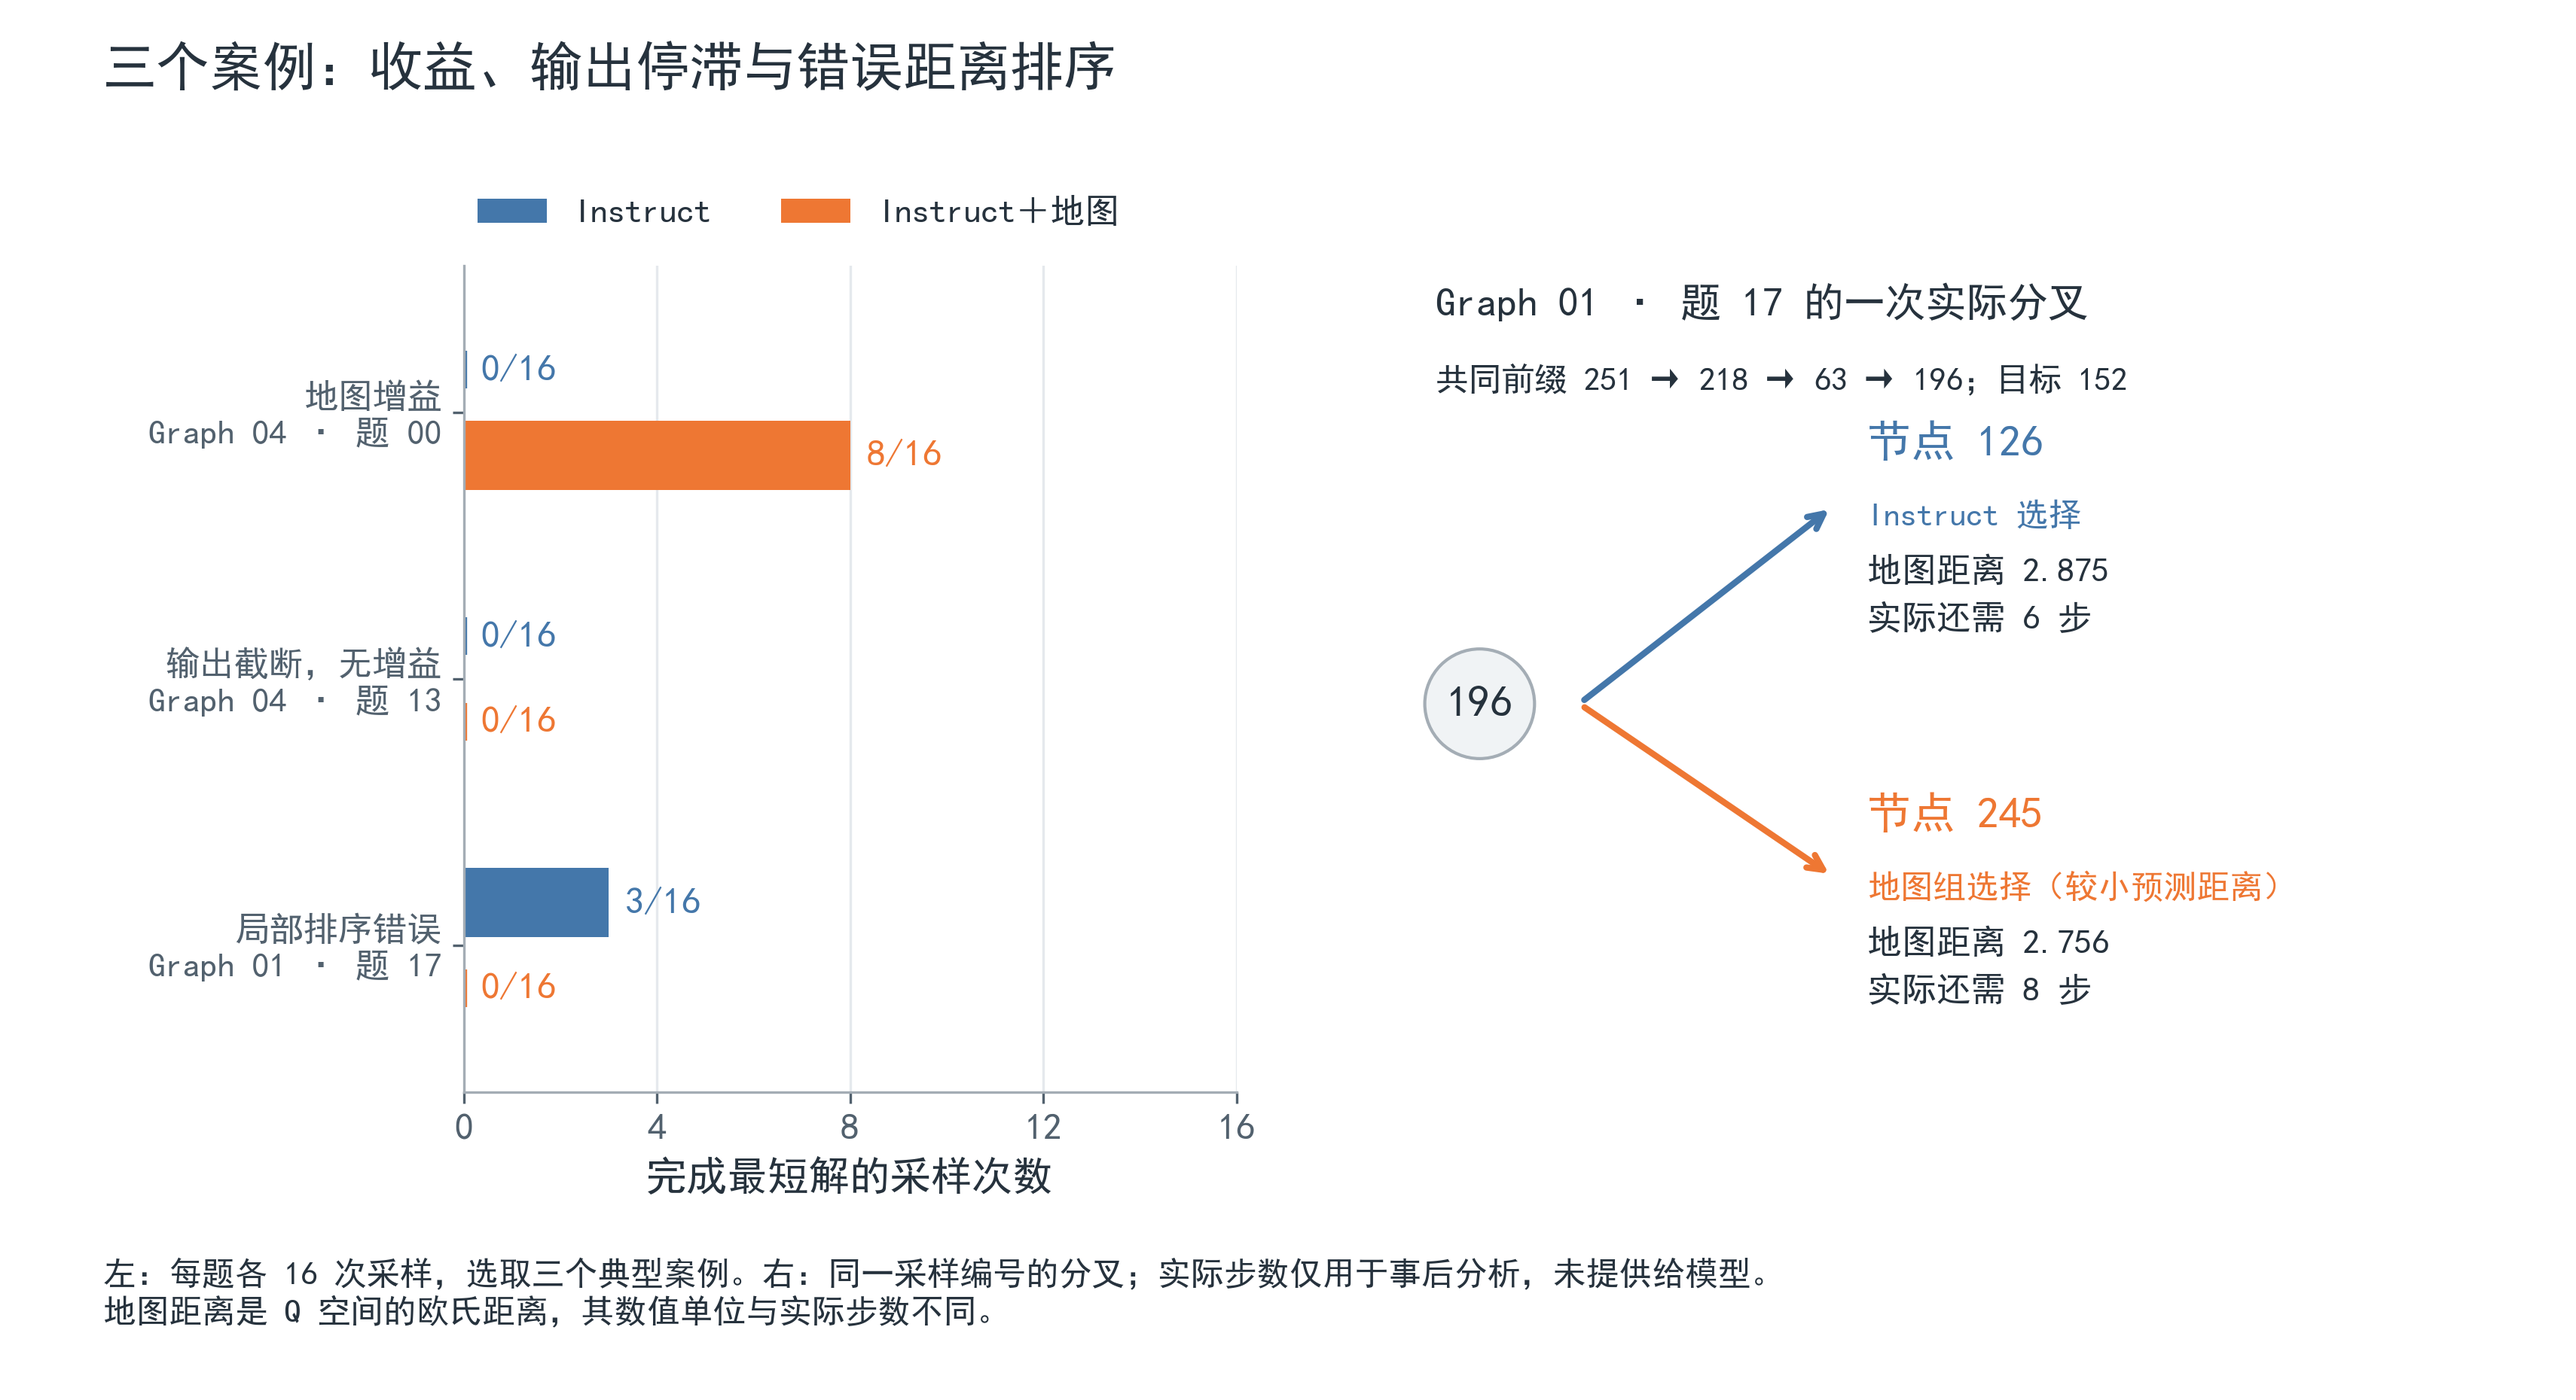
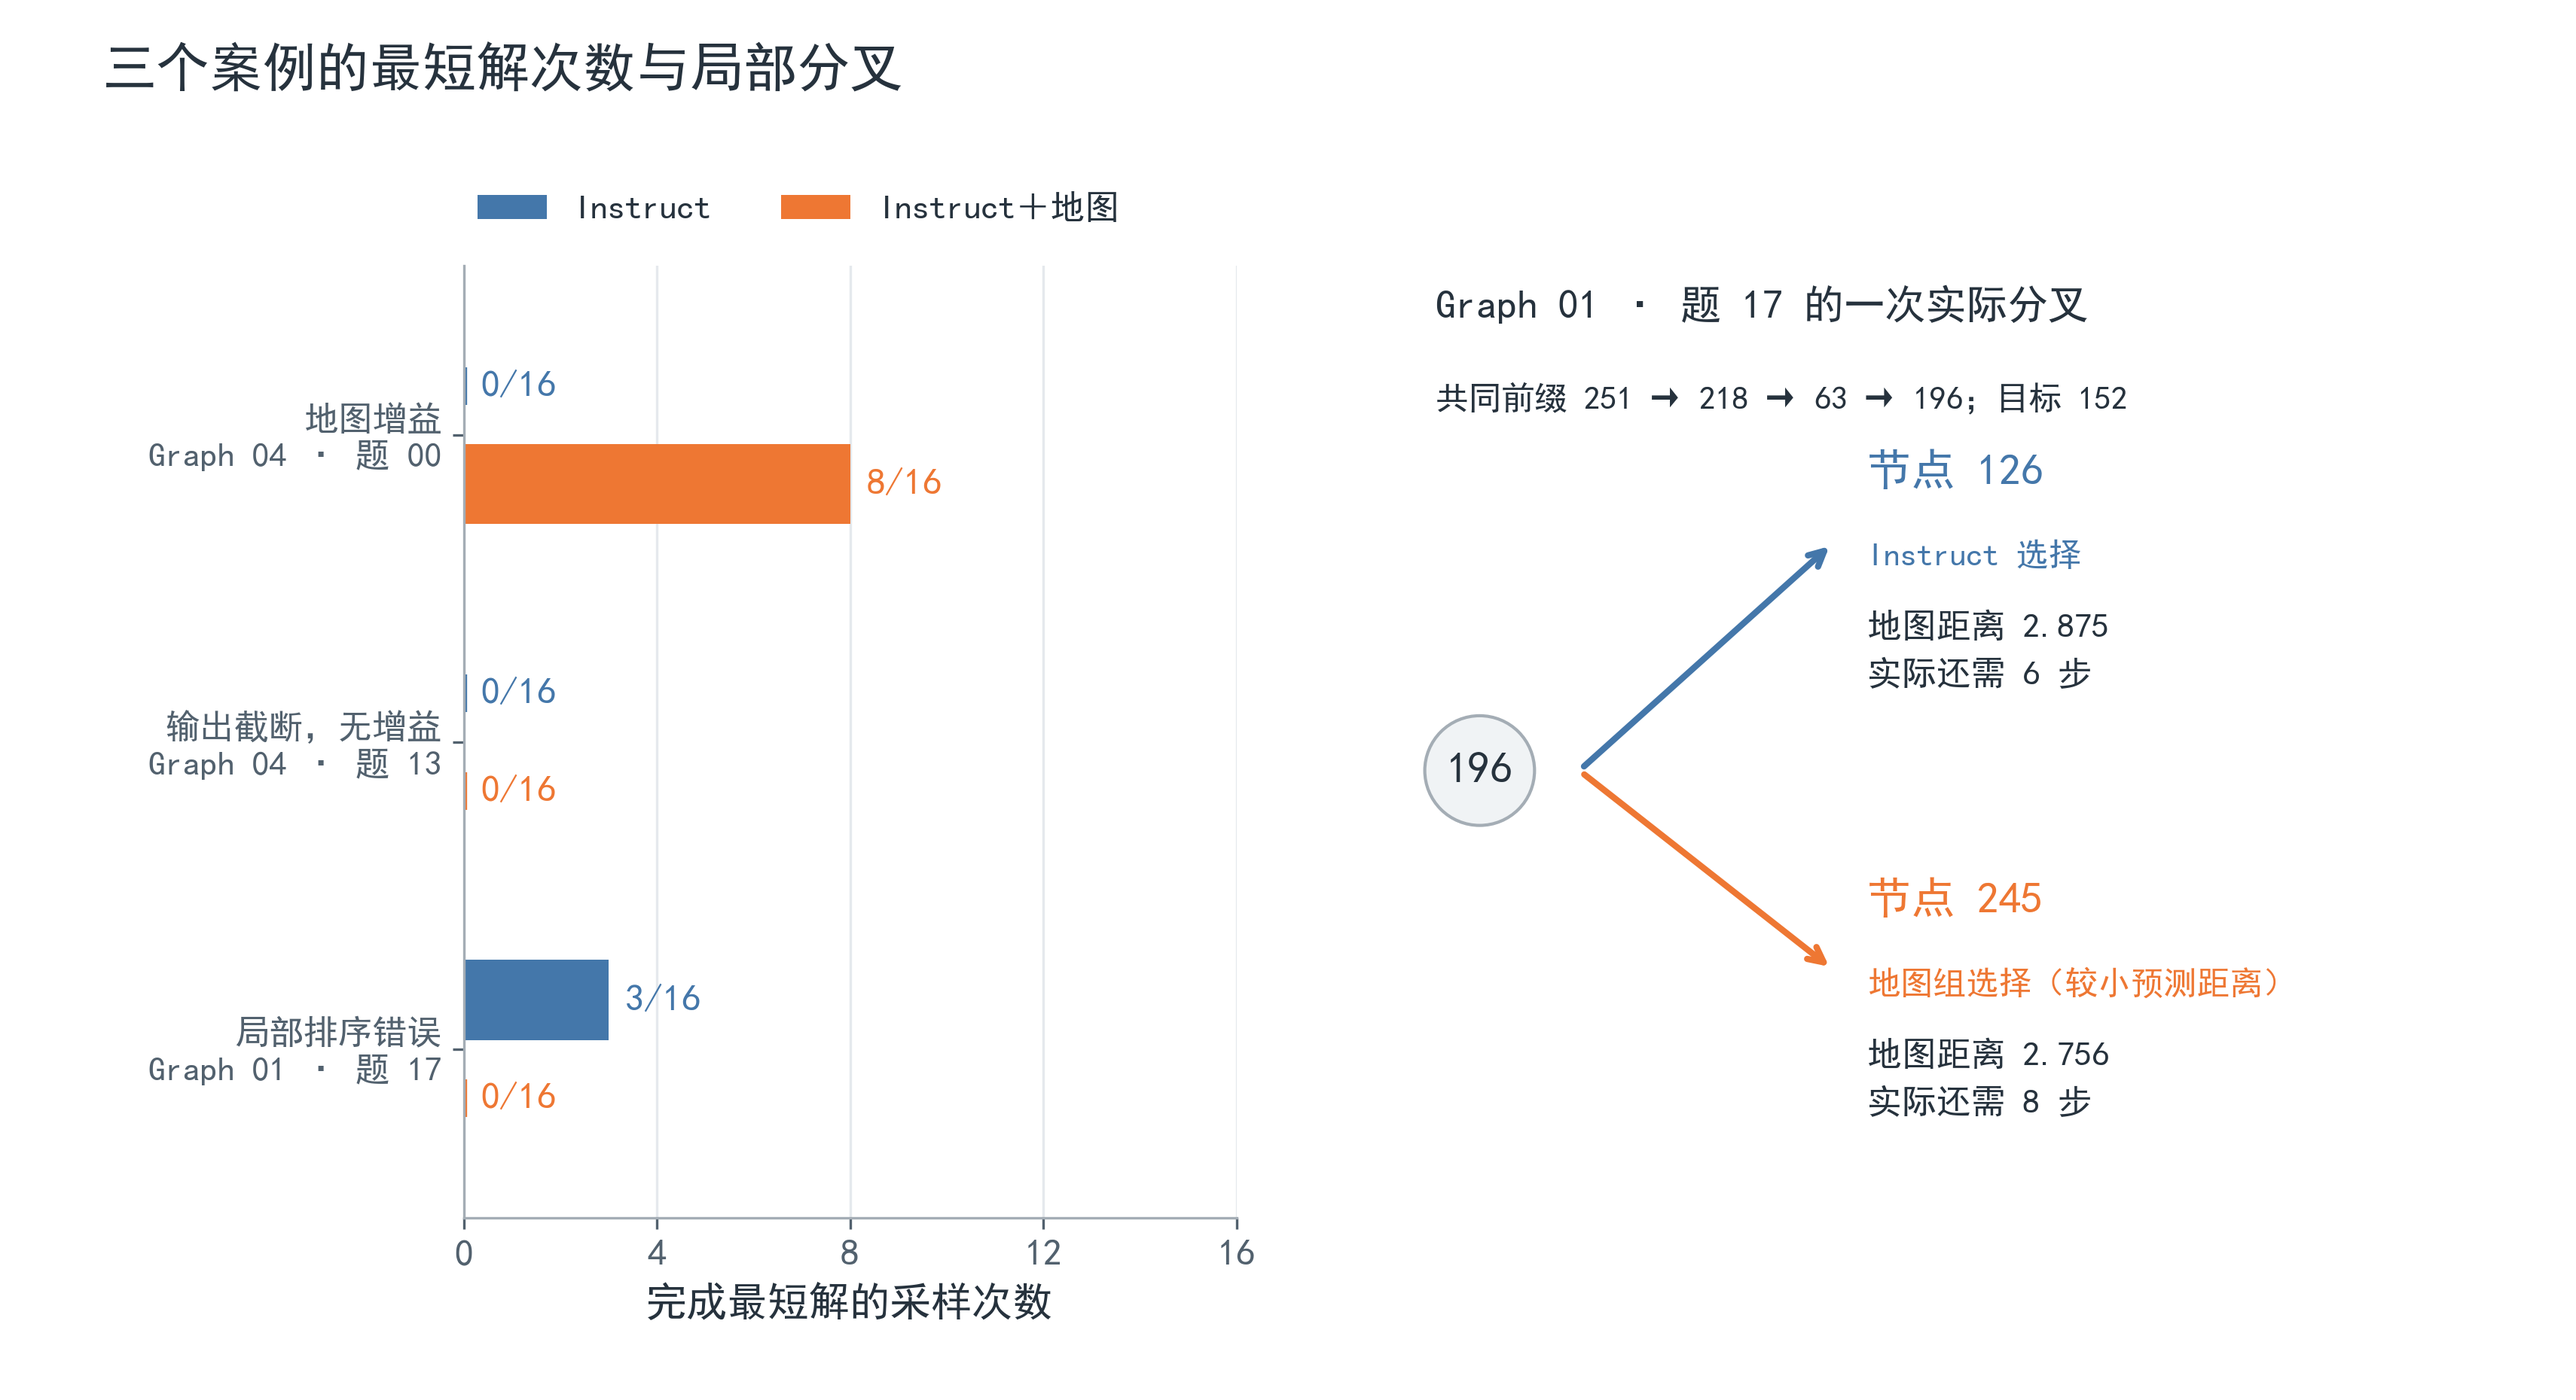
Compare Thinking inference cost and simplify report figures

diff --git a/experiments/external_map_interface/src/plot_path256_report.py b/experiments/external_map_interface/src/plot_path256_report.py
@@ -48,7 +48,7 @@ def save(fig, name, output, exports):
 
 def line_figure(title, xlabel, ticks, xlim):
     fig, ax = plt.subplots(figsize=(9.4, 5.6))
-    fig.subplots_adjust(left=.11, right=.94, bottom=.18, top=.78)
+    fig.subplots_adjust(left=.11, right=.94, bottom=.13, top=.78)
     fig.suptitle(title, x=.11, ha="left", y=.97, fontsize=17)
     ax.set(xlabel=xlabel, ylabel="最短解成功概率", ylim=(0, 105), xlim=xlim)
     ax.set_xticks(ticks)
@@ -60,73 +60,54 @@ def line_figure(title, xlabel, ticks, xlim):
 
 
 def pass_curve(data, output, exports):
-    fig, ax = line_figure("增加采样次数：地图的主要收益出现在单次尝试", "采样次数 k", [1, 8, 16], (0, 18))
+    fig, ax = line_figure("不同采样次数的 pass@k", "采样次数 k", [1, 8, 16], (0, 18))
     for condition, label, color, marker in STYLES:
         values = [100 * data["conditions"][condition]["pass_at"][str(k)] for k in [1, 8, 16]]
         ax.plot([1, 8, 16], values, color=color, marker=marker, markersize=8,
                 linewidth=2.3, label=label)
-        for x, y in zip([1, 8, 16], values):
-            offset = -20 if condition == "instruct" else 9
-            position = (32, 0) if condition == "instruct_distance" and x == 16 else (0, offset)
-            if condition == "instruct_distance" and x == 8:
-                position = (0, 6)
-            ax.annotate("{:.1f}%".format(y), (x, y), xytext=position,
-                        textcoords="offset points", ha="center", color=color, fontsize=12)
     ax.legend(loc="lower left", bbox_to_anchor=(0, 1.03), ncol=3, borderaxespad=0)
-    fig.text(.11, .035, "120 题，每题 16 次采样；pass@1 / @8 为估计值，pass@16 为成功题比例。", fontsize=10.5)
     save(fig, "path256_five_graphs_pass", output, exports)
 
 
 def length_curve(data, output, exports):
     lengths = [4, 6, 8, 10]
-    fig, ax = line_figure("题目变长后，三组成绩均下降；10 步题没有地图收益", "题目的最短路长度（步）", lengths, (3.65, 10.85))
+    fig, ax = line_figure("不同路径长度的 pass@1", "题目的最短路长度（步）", lengths, (3.65, 10.85))
     for condition, label, color, marker in STYLES:
         values = [100 * data["by_shortest_length"][str(n)][condition]["pass_at"]["1"] for n in lengths]
         ax.plot(lengths, values, color=color, marker=marker, markersize=8,
                 linewidth=2.3, label=label)
-        for x, y in zip(lengths, values):
-            offset = (0, -19) if condition == "instruct" else (0, 9)
-            if x == 10:
-                offset = (-22, 5) if condition == "instruct" else (20, -1) if condition == "instruct_distance" else (0, 13)
-            ax.annotate("{:.1f}%".format(y), (x, y), xytext=offset,
-                        textcoords="offset points", ha="center", color=color, fontsize=12)
     ax.legend(loc="lower left", bbox_to_anchor=(0, 1.03), ncol=3, borderaxespad=0)
-    fig.text(.11, .035, "每个长度档 30 题 × 16 次采样；图中为 pass@1。", fontsize=10.5)
     save(fig, "path256_five_graphs_length", output, exports)
 
 
 def cost_figure(data, output, exports):
-    fig, axes = plt.subplots(1, 2, figsize=(10.2, 4.8))
-    fig.subplots_adjust(left=.14, right=.95, bottom=.21, top=.75, wspace=.48)
-    fig.suptitle("地图组生成更少，截断也更少", x=.08, ha="left", y=.96, fontsize=17)
-    conditions = [data["conditions"][condition] for condition, _, _, _ in STYLES[:2]]
+    fig, axes = plt.subplots(1, 2, figsize=(10.2, 4.5))
+    fig.subplots_adjust(left=.17, right=.97, bottom=.17, top=.83, wspace=.55)
+    conditions = [data["conditions"][condition] for condition, _, _, _ in STYLES]
     values = [
         [c["inference_cost"]["mean_output_tokens_per_decision"] for c in conditions],
         [100 * c["failures"].get("budget_truncated", 0) / c["trials"] for c in conditions],
     ]
     for ax, nums, title, unit, limit in zip(axes, values,
-            ["平均决策输出下降 12.1%", "截断轨迹比例下降 8.28 点"],
-            ["输出 tokens", "轨迹比例"], [7000, 80]):
-        for i, ((_, label, color, _), value) in enumerate(zip(STYLES[:2], nums)):
-            ax.barh(1-i, value, color=color, height=.42)
-            text = "{:.2f}%".format(value) if unit == "轨迹比例" else "{:,.0f}".format(value)
-            ax.text(value + limit*.025, 1-i, text, va="center", color=color, fontsize=13)
-        ax.set_yticks([1, 0])
-        ax.set_yticklabels([s[1] for s in STYLES[:2]])
-        ax.set(xlim=(0, limit), ylim=(-.65, 1.65), xlabel=unit, title=title)
+            ["每次决策平均输出", "发生截断的轨迹比例"],
+            ["输出 tokens", "轨迹比例"], [8500, 80]):
+        for i, ((_, label, color, _), value) in enumerate(zip(STYLES, nums)):
+            ax.barh(2-i, value, color=color, height=.48)
+        ax.set_yticks([2, 1, 0])
+        ax.set_yticklabels([s[1] for s in STYLES])
+        ax.set(xlim=(0, limit), ylim=(-.65, 2.65), xlabel=unit, title=title)
         ax.grid(axis="x", color="#E5E9ED", linewidth=.8)
         ax.set_axisbelow(True)
         if unit == "轨迹比例":
             ax.xaxis.set_major_formatter(FuncFormatter(lambda value, pos: "{:.0f}%".format(value)))
-    fig.text(.08, .055, "每组 1,920 条轨迹；截断指至少一次决策达到单步输出上限。\n这些指标说明生成成本下降；低熵或语义重复的机制仍未直接测量。", fontsize=10.5)
     save(fig, "path256_five_graphs_cost", output, exports)
 
 
 def case_figure(data, output, exports):
     cases = data["case_studies"]["cases"]
     fig = plt.figure(figsize=(11.4, 6.2))
-    fig.suptitle("三个案例：收益、输出停滞与错误距离排序", x=.04, ha="left", y=.97, fontsize=17)
-    ax = fig.add_axes([.18, .22, .30, .59])
+    fig.suptitle("三个案例的最短解次数与局部分叉", x=.04, ha="left", y=.97, fontsize=17)
+    ax = fig.add_axes([.18, .13, .30, .68])
     labels = ["地图增益\nGraph 04 · 题 00", "输出截断，无增益\nGraph 04 · 题 13", "局部排序错误\nGraph 01 · 题 17"]
     for index, case in enumerate(cases):
         for condition_index, (condition, label, color, _) in enumerate(STYLES[:2]):
@@ -144,7 +125,7 @@ def case_figure(data, output, exports):
     ax.set_axisbelow(True)
     ax.legend(loc="lower left", bbox_to_anchor=(0, 1.03), ncol=2, fontsize=11, borderaxespad=0)
 
-    branch = fig.add_axes([.54, .22, .43, .59])
+    branch = fig.add_axes([.54, .13, .43, .68])
     branch.set(xlim=(0, 1), ylim=(0, 1))
     branch.axis("off")
     branch.text(.04, .98, "Graph 01 · 题 17 的一次实际分叉", fontsize=13, va="top")
@@ -161,7 +142,6 @@ def case_figure(data, output, exports):
         branch.text(.43, y+.035, explanation, fontsize=10.5, color=color)
         branch.text(.43, y-.09, "地图距离 {:.3f}\n实际还需 {} 步".format(
             candidate["learned_distance"], candidate["true_remaining_moves_posthoc"]), fontsize=11, linespacing=1.6)
-    fig.text(.04, .055, "左：每题各 16 次采样，选取三个典型案例。右：同一采样编号的分叉；实际步数仅用于事后分析，未提供给模型。\n地图距离是 Q 空间的欧氏距离，其数值单位与实际步数不同。", fontsize=10.5)
     save(fig, "path256_five_graphs_cases", output, exports)
 
 

diff --git a/experiments/external_map_interface/results/path256_five_graphs.md b/experiments/external_map_interface/results/path256_five_graphs.md
@@ -65,19 +65,21 @@ pass@k 指 k 次采样中至少出现一次最短解的概率；pass@1、pass@8 
 
 ## 推理成本
 
-| 指标 | Instruct | Instruct＋地图 | 变化 |
-| --- | ---: | ---: | ---: |
-| 每条轨迹平均输出 tokens | 25,072 | 23,024 | −8.2% |
-| 每次决策平均输出 tokens | 5,671 | 4,984 | −12.1% |
-| 两组都完成最短解的 317 对轨迹：平均输出 tokens | 10,325 | 9,896 | −4.2% |
-| 累计输出／最短解成功次数，包含失败尝试 | 92,932 | 68,750 | −26.0% |
-| 发生截断的轨迹比例 | 63.28% | 55.00% | −8.28 点 |
+| 指标                  | Instruct | Instruct＋地图 | Thinking |
+| ------------------- | -------: | ----------: | -------: |
+| 每条轨迹平均输出 tokens     |   25,072 |      23,024 |   35,415 |
+| 每次决策平均输出 tokens     |    5,671 |       4,984 |    7,391 |
+| 每条轨迹平均输入 tokens     |   20,583 |      21,660 |   22,317 |
+| 累计输出／最短解成功次数，包含失败尝试 |   92,932 |      68,750 |   73,830 |
+| 发生截断的轨迹比例           |   63.28% |      55.00% |   40.57% |
 
-![地图组的平均决策输出和截断比例](path256_five_graphs_cost.png)
+![三组模型的平均决策输出和截断比例](path256_five_graphs_cost.png)
 
-*图 3：同一 Instruct 权重的两组比较。地图组平均每次决策少生成约 687 tokens，发生截断的轨迹比例下降 8.28 个百分点。*
+*图 3：每组 1,920 条轨迹。截断指轨迹中至少一次决策达到单步输出上限。Thinking 使用独立权重。*
 
-记录的平均累计调用耗时为 203.6→184.8 秒／轨迹；耗时包含排队，且运行跨 A100/A800 与不同负载，作为本次运行的观察值。输入 token 增加约 5.2%，输出节省需与额外输入分别解释。Thinking 的平均输出为 35,415 tokens／轨迹，成绩更高，也消耗更多生成。
+同一 Instruct 权重下，加入地图后每次决策平均少输出约 687 tokens（−12.1%），截断轨迹比例降低 8.28 个百分点。两组都完成最短解的 317 对轨迹中，平均输出为 10,325→9,896 tokens（−4.2%）。地图组的平均输入 tokens 增加约 5.2%，应与输出节省分别解释。
+
+Thinking 每条轨迹平均输出 35,415 tokens，高于另外两组；其截断比例为 40.57%，低于另外两组。它使用不同权重，这里展示成本与表现的对照，不能将差异归因于地图。记录的平均累计调用耗时在两组 Instruct 中为 203.6→184.8 秒／轨迹；耗时包含排队，且运行跨 A100/A800 与不同负载，仅作为本次运行的观察值。
 
 存在反复输出同一 JSON、重复反思等样例。不过，严格的末尾重复文本诊断仅检出无地图 8 个步骤、地图 4 个步骤，不能解释上千次截断；它也不覆盖所有语义重复。当前没有记录 token 概率，**“低熵导致停滞”尚未得到直接验证**。现阶段可以明确汇报的是输出成本和截断减少。
 
